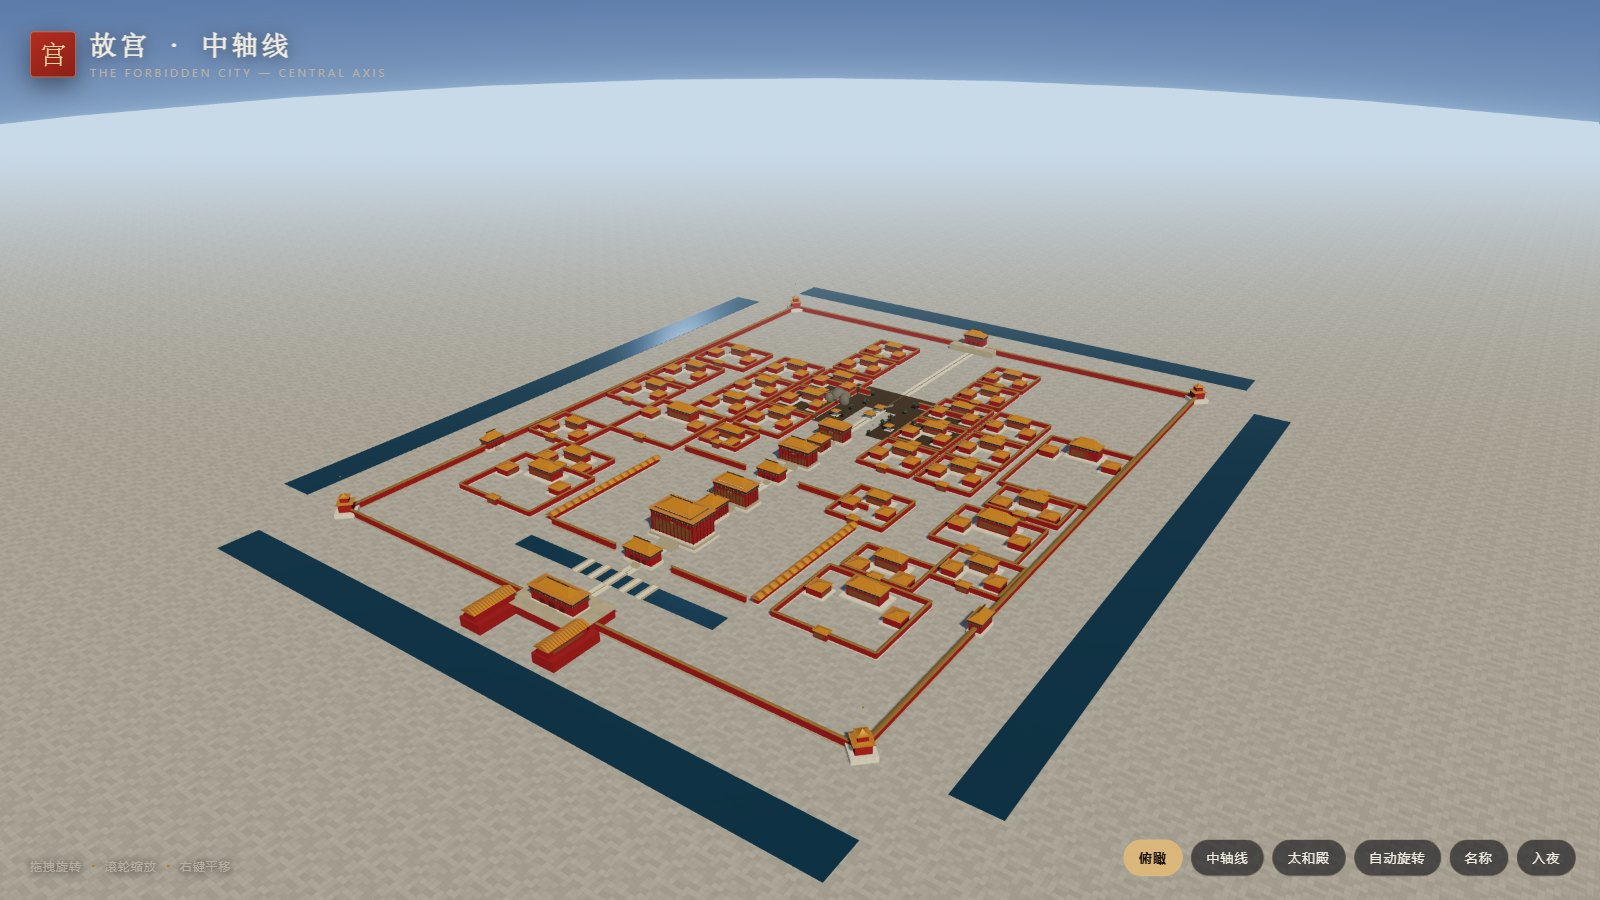
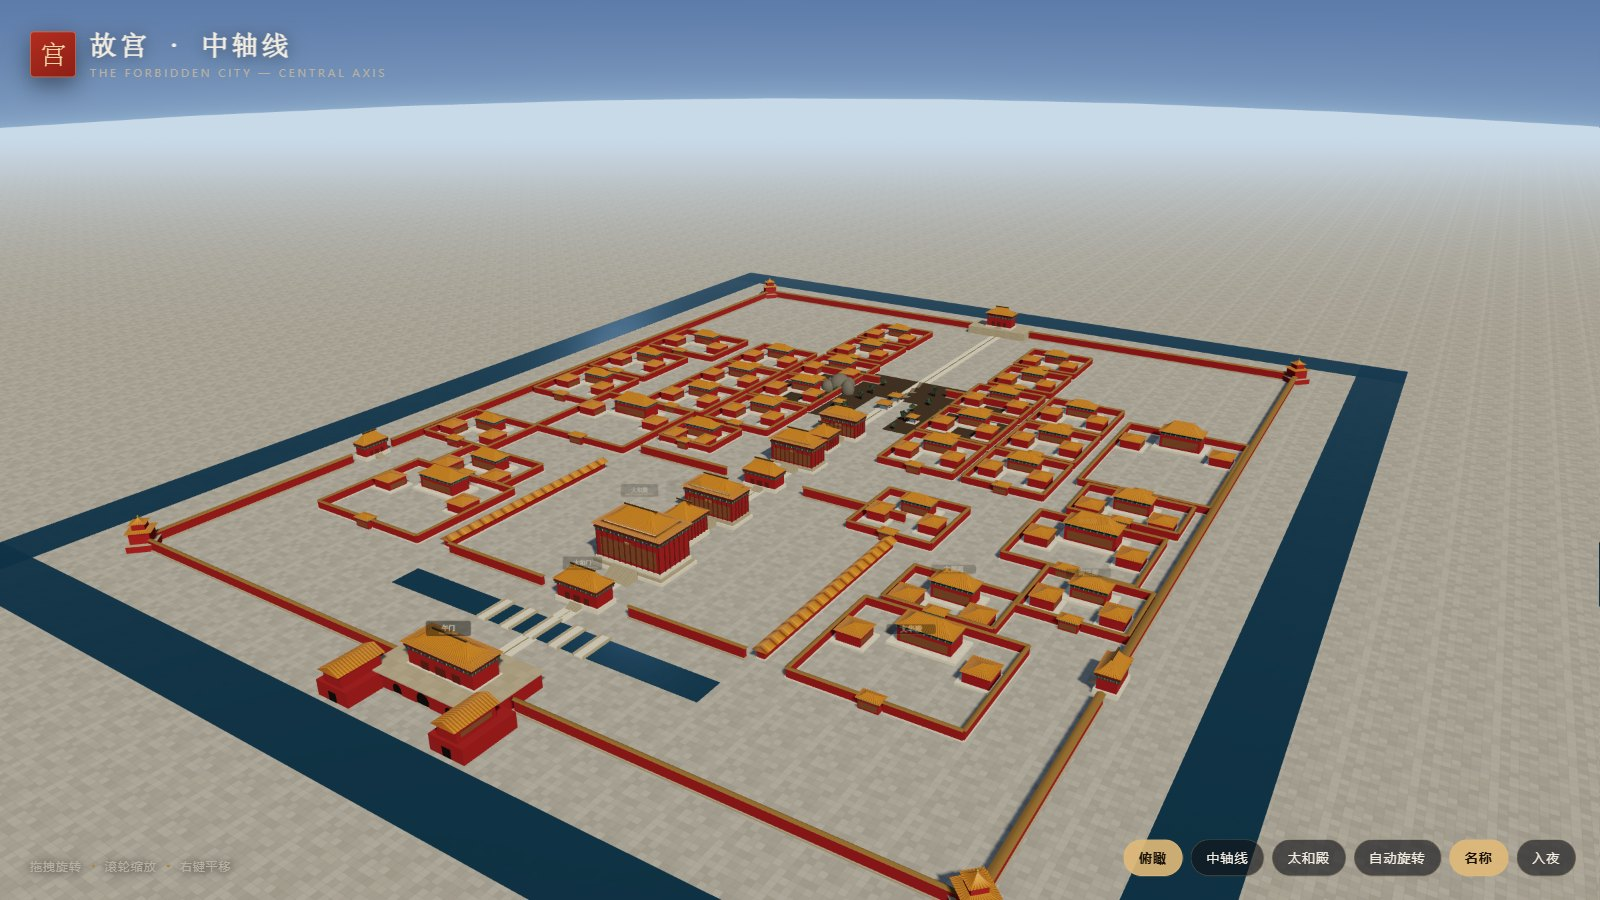
fix: real gate arches, wall openings at gates, closed moat ring, corner finials, labels

diff --git a/js/city.js b/js/city.js
@@ -139,24 +139,43 @@ export function buildCity(mat) {
   root.add(axis);
 
   // ---- outer wall + moat + corner towers -----------------------------------
-  for (const z of [AXIS.south, AXIS.north]) {
-    const seg = createWallSegment({ length: AXIS.halfWidth * 2, along: "x" }, mat);
-    seg.position.set(0, 0, z);
+  // The wall is broken wherever a gate sits in it, otherwise it runs straight
+  // across the 午门 and buries its arches.
+  const addWallRun = (from, to, along, fixed) => {
+    const len = Math.abs(to - from);
+    if (len < 1) return;
+    const seg = createWallSegment({ length: len, along }, mat);
+    if (along === "x") seg.position.set((from + to) / 2, 0, fixed);
+    else seg.position.set(fixed, 0, (from + to) / 2);
     root.add(seg);
-  }
+  };
+
+  const WUMEN_HALF = 56;
+  addWallRun(-AXIS.halfWidth, -WUMEN_HALF, "x", AXIS.south);
+  addWallRun(WUMEN_HALF, AXIS.halfWidth, "x", AXIS.south);
+
+  const SHENWU_HALF = 42;
+  addWallRun(-AXIS.halfWidth, -SHENWU_HALF, "x", AXIS.north);
+  addWallRun(SHENWU_HALF, AXIS.halfWidth, "x", AXIS.north);
+
+  const SIDE_GATE_Z = 250;
+  const SIDE_GATE_HALF = 24;
   for (const x of [-AXIS.halfWidth, AXIS.halfWidth]) {
-    const seg = createWallSegment({ length: AXIS.south * 2, along: "z" }, mat);
-    seg.position.set(x, 0, 0);
-    root.add(seg);
+    addWallRun(AXIS.north, SIDE_GATE_Z - SIDE_GATE_HALF, "z", x);
+    addWallRun(SIDE_GATE_Z + SIDE_GATE_HALF, AXIS.south, "z", x);
   }
 
   const moatW = 52;
-  const moatGap = 86;
+  const moatGap = 60;
+  // One ring, four runs that actually meet at the corners: the offset of each
+  // run is derived from the same outer bound, so no corner is left open.
+  const moatOuterX = AXIS.halfWidth + moatGap + moatW; // outer face of the ring
+  const moatOuterZ = AXIS.south + moatGap + moatW;
   const moatRuns = [
-    [0, AXIS.south + moatGap + moatW / 2, AXIS.halfWidth * 2 + moatW * 2, moatW],
-    [0, AXIS.north - moatGap - moatW / 2, AXIS.halfWidth * 2 + moatW * 2, moatW],
-    [-AXIS.halfWidth - moatGap - moatW / 2, 0, moatW, AXIS.south * 2],
-    [AXIS.halfWidth + moatGap + moatW / 2, 0, moatW, AXIS.south * 2],
+    [0, AXIS.south + moatGap + moatW / 2, moatOuterX * 2, moatW],
+    [0, AXIS.north - moatGap - moatW / 2, moatOuterX * 2, moatW],
+    [-AXIS.halfWidth - moatGap - moatW / 2, 0, moatW, moatOuterZ * 2],
+    [AXIS.halfWidth + moatGap + moatW / 2, 0, moatW, moatOuterZ * 2],
   ];
   for (const [x, z, w, d] of moatRuns) {
     const water = new THREE.Mesh(new THREE.BoxGeometry(w, 0.6, d), mat.water);
@@ -176,10 +195,68 @@ export function buildCity(mat) {
 
   // ---- meridian gate (午门): brick base, tower, two wings -------------------
   const wumen = new THREE.Group();
-  wumen.add(box(104, 12, 56, mat.wall, { y: 6 }));
+
+  // 城台 is built from piers and a masonry arch rather than one solid box, so
+  // the 券门 are real openings with depth behind them.
+  const H_TAI = 12;
+  const D_TAI = 56;
+  const ARCHES = [
+    { x: 0, w: 12, h: 9.8 },
+    { x: -25, w: 8.4, h: 7.8 },
+    { x: 25, w: 8.4, h: 7.8 },
+  ];
+
+  const buildPier = (x0, x1) => {
+    if (x1 - x0 < 0.05) return;
+    wumen.add(box(x1 - x0, H_TAI, D_TAI, mat.wall, { x: (x0 + x1) / 2, y: H_TAI / 2 }));
+  };
+
+  const buildArchHead = (a) => {
+    const N = 28;
+    const r = a.w / 2;
+    const springY = a.h - r;
+    for (let i = 0; i < N; i++) {
+      const x0 = a.x - r + (a.w * i) / N;
+      const x1 = a.x - r + (a.w * (i + 1)) / N;
+      const xm = (x0 + x1) / 2;
+      const dx = Math.abs(xm - a.x);
+      const yArc = dx < r ? springY + Math.sqrt(Math.max(0, r * r - dx * dx)) : a.h;
+      const colH = H_TAI - yArc;
+      if (colH > 0.08) {
+        wumen.add(box(x1 - x0 + 0.06, colH, D_TAI, mat.wall, { x: xm, y: yArc + colH / 2 }));
+      }
+    }
+  };
+
+  let cursor = -52;
+  // piers must be built left to right, otherwise a later pier fills in an
+  // opening that was already cut
+  for (const a of [...ARCHES].sort((p, q) => p.x - q.x)) {
+    const left = a.x - a.w / 2;
+    const right = a.x + a.w / 2;
+    buildPier(cursor, left);
+    buildArchHead(a);
+    // dark passage behind the opening
+    wumen.add(
+      box(a.w - 0.3, a.h - 0.3, 3.4, mat.voidDark, {
+        x: a.x,
+        y: (a.h - 0.3) / 2,
+        z: D_TAI / 2 - 1.9,
+      }),
+    );
+    cursor = right;
+  }
+  buildPier(cursor, 52);
+
+  // stone sill under each opening
+  for (const a of ARCHES) {
+    wumen.add(box(a.w + 0.6, 0.5, 4, mat.stoneDark, { x: a.x, y: 0.25, z: D_TAI / 2 - 1.4 }));
+  }
+
   wumen.add(box(108, 0.8, 60, mat.stoneDark, { y: 12.4 }));
+
   const wumenTower = createGate(
-    { w: 62, d: 22, h: 12, platform: { height: 2 }, roof: { height: 14, double: true } },
+    { w: 62, d: 22, h: 12, platform: { height: 1.2 }, roof: { height: 14, double: true } },
     mat,
   );
   wumenTower.position.y = 12;
@@ -187,13 +264,16 @@ export function buildCity(mat) {
 
   // 雁翅楼: the wings must sit on the city platform, not hover over the moat,
   // so each one gets a solid brick base continuous with the main block.
-  const WING_LEN = 52;
+  const WING_LEN = 32;
   const WING_Z = 22 + WING_LEN / 2;
   const wingBodyH = 9;
   for (const x of [-54, 54]) {
     wumen.add(box(30, 12, WING_LEN + 12, mat.wall, { x, y: 6, z: WING_Z - 4 }));
     wumen.add(box(17, wingBodyH, WING_LEN, mat.wall, { x, y: 12 + wingBodyH / 2, z: WING_Z }));
     wumen.add(box(18.4, 0.8, WING_LEN + 1.2, mat.beam, { x, y: 12 + wingBodyH + 0.4, z: WING_Z }));
+
+    // 掖门 on each wing, facing south
+    wumen.add(box(7.6, 7.2, 0.25, mat.voidDark, { x, y: 3.7, z: WING_Z - 4 + (WING_LEN + 12) / 2 - 0.05 }));
 
     const wingRoof = new THREE.Mesh(
       gableRoofGeometry({ width: WING_LEN + 3, depth: 19, height: 4.6, overhang: 1.1 }),
@@ -261,6 +341,11 @@ export function buildCity(mat) {
   // ---- side courtyards, traced from the palace plan ------------------------
   for (const cfg of DISTRICTS) {
     root.add(createCourt(mat, cfg));
+    labels.push({
+      name: cfg.name,
+      pos: new THREE.Vector3(cfg.x, 30, cfg.z),
+      small: true,
+    });
   }
 
   // ---- side gates through the outer wall: 东华门 / 西华门 -------------------

diff --git a/js/labels.js b/js/labels.js
@@ -3,8 +3,8 @@ import * as THREE from "three";
 /** Billboard labels drawn on canvas -- no DOM overlay, so they scale and
  *  occlude with the scene like real 3D objects. */
 function makeLabelTexture(name, en) {
-  const W = 640;
-  const H = 200;
+  const W = 512;
+  const H = en ? 200 : 132;
   const c = document.createElement("canvas");
   c.width = W;
   c.height = H;
@@ -15,9 +15,9 @@ function makeLabelTexture(name, en) {
   ctx.lineWidth = 3;
   const r = 26;
   const x = 6;
-  const y = 26;
+  const y = 14;
   const w = W - 12;
-  const h = H - 52;
+  const h = H - 28;
   ctx.beginPath();
   ctx.moveTo(x + r, y);
   ctx.arcTo(x + w, y, x + w, y + h, r);
@@ -31,10 +31,13 @@ function makeLabelTexture(name, en) {
   ctx.textAlign = "center";
   ctx.fillStyle = "#f5ead6";
   ctx.font = '600 74px "Songti SC", "STSong", "SimSun", serif';
-  ctx.fillText(name, W / 2, 118);
-  ctx.fillStyle = "rgba(224, 185, 120, 0.85)";
-  ctx.font = '400 30px "PingFang SC", "Microsoft YaHei", system-ui, sans-serif';
-  ctx.fillText(en, W / 2, 162);
+  ctx.fillText(name, W / 2, en ? 118 : 86);
+
+  if (en) {
+    ctx.fillStyle = "rgba(224, 185, 120, 0.85)";
+    ctx.font = '400 30px "PingFang SC", "Microsoft YaHei", system-ui, sans-serif';
+    ctx.fillText(en, W / 2, 162);
+  }
 
   const tex = new THREE.CanvasTexture(c);
   tex.colorSpace = THREE.SRGBColorSpace;
@@ -53,16 +56,17 @@ export function createLabelLayer(labels) {
       transparent: true,
       depthTest: false,
       depthWrite: false,
-      opacity: 0.95,
+      opacity: item.small ? 0.72 : 0.95,
     });
     const sprite = new THREE.Sprite(material);
-    const height = 12;
+    const height = item.small ? 9 : 12;
     sprite.scale.set((height * tex.image.width) / tex.image.height, height, 1);
     sprite.position.copy(item.pos);
-    sprite.renderOrder = 999;
+    sprite.renderOrder = item.small ? 998 : 999;
+    sprite.userData.baseOpacity = material.opacity;
     group.add(sprite);
   }
 
-  group.visible = false;
+  group.visible = true;
   return group;
 }

diff --git a/js/buildings.js b/js/buildings.js
@@ -213,7 +213,9 @@ export function createCorridor({ length, along = "z" }, mat) {
 /** 角楼 — the nine-ridge, eighteen-column corner pavilion, simplified to three tiers. */
 export function createCornerTower(mat) {
   const g = new THREE.Group();
-  g.add(box(26, 6, 26, mat.stone, { y: 3 }));
+  // the tower stands on the wall itself, so its base is brick, not marble
+  g.add(box(22, 6, 22, mat.wall, { y: 3 }));
+  g.add(box(22.8, 0.6, 22.8, mat.stoneDark, { y: 6.1 }));
 
   g.add(box(16, 9, 16, mat.wall, { y: 6 + 4.5 }));
   const lower = new THREE.Mesh(
@@ -224,24 +226,25 @@ export function createCornerTower(mat) {
   lower.castShadow = true;
   g.add(lower);
 
-  g.add(box(10, 4.5, 10, mat.wall, { y: 20.2 }));
+  // middle storey, tucked into the lower roof
+  g.add(box(10, 4.2, 10, mat.wall, { y: 19.6 }));
+
   const upper = new THREE.Mesh(
     hipRoofGeometry({ width: 10, depth: 10, height: 6.5, overhang: 1.8, lift: 1.8 }),
     mat.roof,
   );
-  upper.position.y = 22.4;
+  upper.position.y = 21.4;
   upper.castShadow = true;
   g.add(upper);
 
-  group_addFinial(upper, mat);
-  g.userData.height = 30;
-  return g;
-}
+  // 宝顶 sits on the group, at the actual apex of the top roof
+  const finial = new THREE.Mesh(new THREE.SphereGeometry(0.85, 10, 8), mat.gold);
+  finial.position.y = 21.4 + 6.5 + 0.6;
+  finial.castShadow = true;
+  g.add(finial);
 
-function group_addFinial(parent, mat) {
-  const ball = new THREE.Mesh(new THREE.SphereGeometry(0.9, 8, 8), mat.gold);
-  ball.position.y = 22.4 + 6.9;
-  parent.add(ball);
+  g.userData.height = 29;
+  return g;
 }
 
 /** Open pavilion in the imperial garden: columns, railings, pyramidal roof. */
@@ -281,7 +284,7 @@ export function createPavilion(mat, scale = 1) {
   roof.castShadow = true;
   g.add(roof);
   const ball = new THREE.Mesh(new THREE.SphereGeometry(0.55, 8, 8), mat.gold);
-  ball.position.y = 5.8 + 4.8;
+  ball.position.y = baseY + 4.9 + 4.6 + 0.45;
   g.add(ball);
   g.userData.height = 11 * scale;
   return g;

diff --git a/js/main.js b/js/main.js
@@ -30,7 +30,7 @@ scene.add(labelLayer);
 // Camera presets with eased transitions
 // ---------------------------------------------------------------------------
 const VIEWS = {
-  overview: { position: new THREE.Vector3(760, 660, 1120), target: new THREE.Vector3(0, 18, 40) },
+  overview: { position: new THREE.Vector3(520, 430, 880), target: new THREE.Vector3(0, 14, 40) },
   axis: { position: new THREE.Vector3(0, 170, 900), target: new THREE.Vector3(0, 30, -80) },
   taihe: { position: new THREE.Vector3(170, 90, 470), target: new THREE.Vector3(0, 30, 282) },
   garden: { position: new THREE.Vector3(62, 26, -74), target: new THREE.Vector3(28, 11, -122) },
@@ -67,7 +67,7 @@ function updateFlight(dt) {
 // ---------------------------------------------------------------------------
 const ui = {
   rotate: false,
-  labels: false,
+  labels: true,
   night: false,
 };
 
@@ -123,6 +123,17 @@ function render() {
   tick(dt);
 
   // keep the moat moving so it reads as water rather than a glass slab
+  // Labels behave like a map legend: they fade in as you approach, so the
+  // overview stays clean and the close-ups stay readable.
+  if (labelLayer.visible) {
+    for (const sprite of labelLayer.children) {
+      const d = camera.position.distanceTo(sprite.position);
+      const a = Math.min(1, Math.max(0, (950 - d) / 320));
+      sprite.visible = a > 0.02;
+      sprite.material.opacity = a * sprite.userData.baseOpacity;
+    }
+  }
+
   if (materials.water.normalMap) {
     materials.water.normalMap.offset.x = (materials.water.normalMap.offset.x + dt * 0.006) % 1;
     materials.water.normalMap.offset.y = (materials.water.normalMap.offset.y + dt * 0.004) % 1;

diff --git a/js/materials.js b/js/materials.js
@@ -259,6 +259,7 @@ export function createMaterials() {
     beam: new THREE.MeshStandardMaterial({ map: toTexture(beamCanvas()), roughness: 0.65 }),
     gold: new THREE.MeshStandardMaterial({ color: 0xd8b25a, roughness: 0.32, metalness: 0.85 }),
     timber: new THREE.MeshStandardMaterial({ color: 0x6b2a18, roughness: 0.85 }),
+    voidDark: new THREE.MeshStandardMaterial({ color: 0x120d0a, roughness: 1 }),
     ground: new THREE.MeshStandardMaterial({
       map: toTexture(pave, { repeat: [300, 300] }),
       normalMap: toTexture(normalFromCanvas(pave, 1.5), { repeat: [300, 300], srgb: false }),
